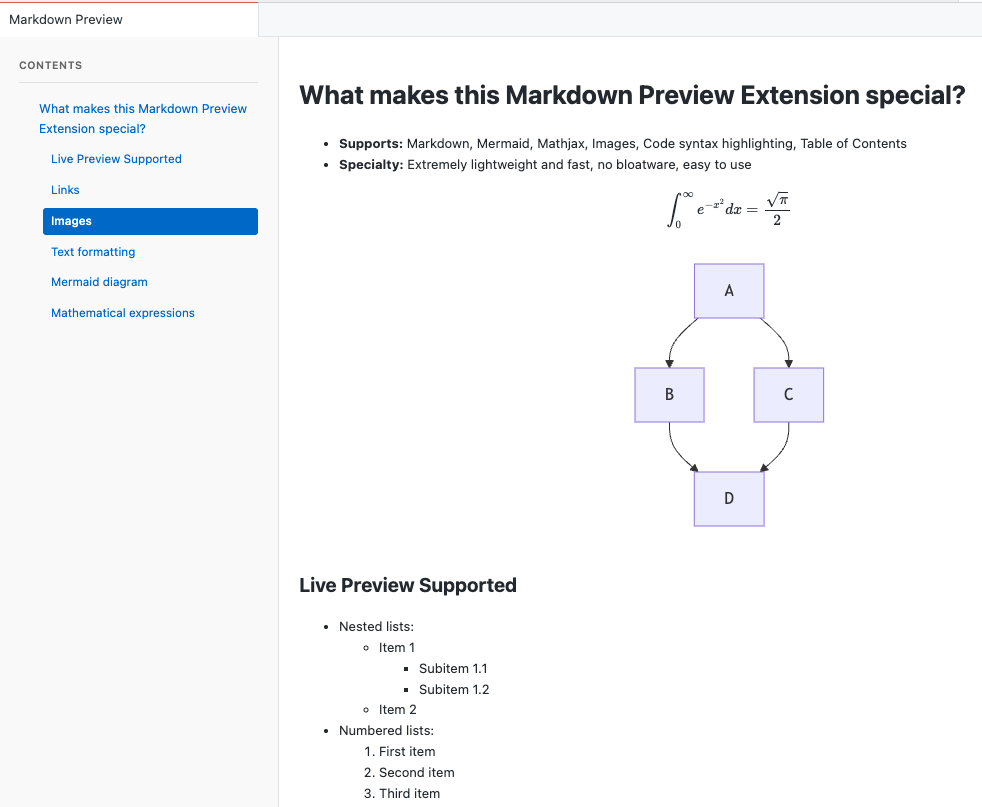
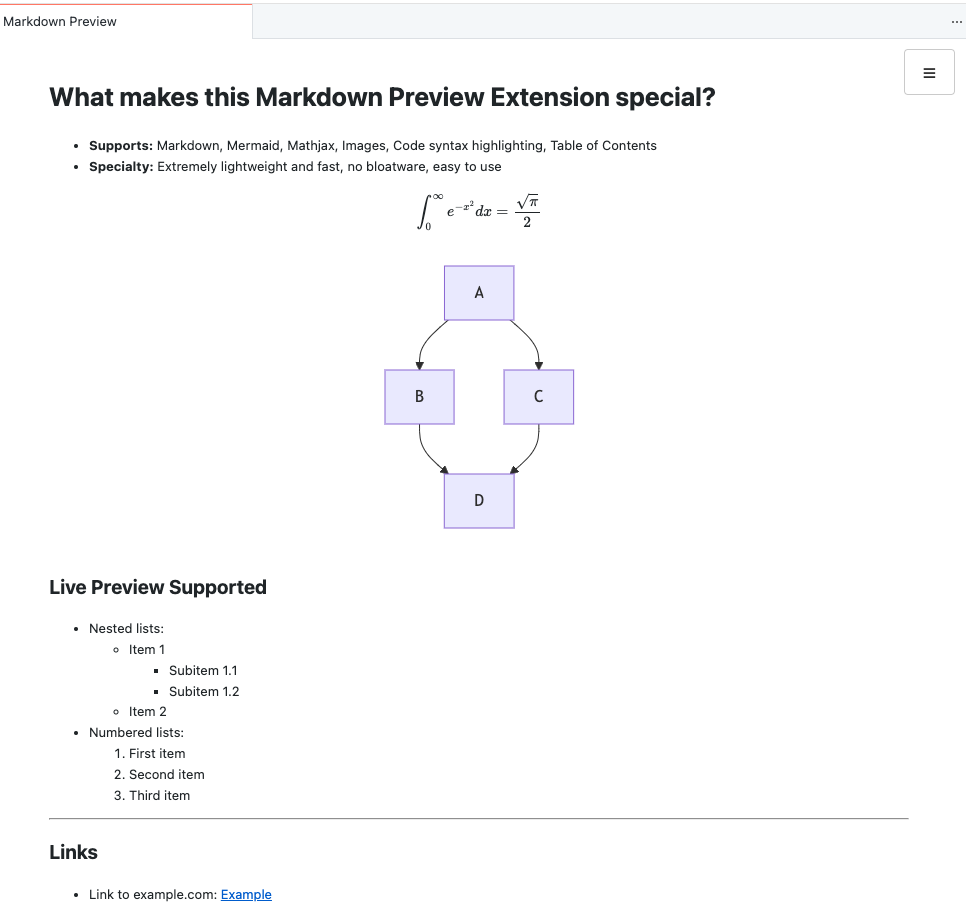
chore: update documentation and changelog for versioning and security model improvements

diff --git a/src/extension.js b/src/extension.js
@@ -387,7 +387,7 @@ function generateTOC(headings) {
  * - Security: Content Security Policy with nonce-based scripts
  * - Styling: Clean, minimal design that works in light and dark themes
  * - Interactivity: Mermaid diagrams and MathJax equations rendered via CDN
- * - Navigation: Collapsible overlay TOC sidebar for document outline (Option 3 pattern)
+ * - Navigation: Collapsible overlay TOC sidebar for document outline
  *
  * CSP (Content Security Policy) breakdown:
  * - default-src 'none': Block everything by default (secure)

diff --git a/docs/development.md b/docs/development.md
@@ -154,7 +154,7 @@ After pushing, verify that:
 
 **Only release from `main` branch after all features are merged and tested.**
 
-Follow these steps precisely in order. Each step is required and builds on the previous one.
+Follow these steps precisely in order. Each step is required and builds on the previous one. Replace `X.Y.Z` with your actual version number throughout.
 
 ### Pre-Release Checklist
 
@@ -173,19 +173,19 @@ Before starting:
 **Edit package.json** - update the version field only:
 
 ```json
-"version": "1.0.4"
+"version": "X.Y.Z"
 ```
 
 **Edit package-lock.json** - update ALL occurrences of version (use search & replace):
 
 ```
-"version": "1.0.4"
+"version": "X.Y.Z"
 ```
 
 Verify with:
 
 ```bash
-grep '"version": "1.0.4"' package.json package-lock.json | wc -l
+grep '"version": "X.Y.Z"' package.json package-lock.json | wc -l
 # Should output: 2 (one from each file)
 ```
 
@@ -194,7 +194,7 @@ grep '"version": "1.0.4"' package.json package-lock.json | wc -l
 Add entry at the **very top** (after the header) in this exact format:
 
 ```markdown
-## [1.0.4] - 2025-11-07
+## [X.Y.Z] - YYYY-MM-DD
 
 ### Added
 - New feature description (if any)
@@ -255,11 +255,11 @@ git status
 **Commit with descriptive message:**
 
 ```bash
-git commit -m "chore: bump version to 1.0.4
+git commit -m "chore: bump version to X.Y.Z
 
 - Update package.json version
 - Update package-lock.json version
-- Add CHANGELOG entry for v1.0.4"
+- Add CHANGELOG entry for vX.Y.Z"
 ```
 
 **Verify commit:**
@@ -273,13 +273,13 @@ git log -1 --oneline  # Should show your commit
 **Create annotated tag (required, not lightweight):**
 
 ```bash
-git tag -a v1.0.4 -m "Release version 1.0.4"
+git tag -a vX.Y.Z -m "Release version X.Y.Z"
 ```
 
 **Verify tag points to correct commit:**
 
 ```bash
-git show v1.0.4 --quiet  # Should show your version bump commit
+git show vX.Y.Z --quiet  # Should show your version bump commit
 ```
 
 ### Step 7: Push to GitHub
@@ -293,14 +293,14 @@ git push origin main
 **Push tag:**
 
 ```bash
-git push origin v1.0.4
+git push origin vX.Y.Z
 ```
 
 **Verify both pushed:**
 
 ```bash
 git log -1 origin/main --oneline  # Should show your commit
-git ls-remote origin refs/tags/v1.0.4  # Should return tag SHA
+git ls-remote origin refs/tags/vX.Y.Z  # Should return tag SHA
 ```
 
 ### Step 8: Publish to VS Code Marketplace
@@ -313,7 +313,7 @@ npm run build
 npm run publish
 ```
 
-Wait for confirmation: `DONE  Published KunalPathak.lightweight-markdown-preview v1.0.4.`
+Wait for confirmation: `DONE  Published KunalPathak.lightweight-markdown-preview vX.Y.Z.`
 
 If you get version-already-published error, verify package.json has the correct new version.
 
@@ -324,7 +324,7 @@ If you get version-already-published error, verify package.json has the correct 
 git log origin/main -3 --oneline
 
 # Check GitHub tag exists
-git ls-remote origin refs/tags/v1.0.4
+git ls-remote origin refs/tags/vX.Y.Z
 
 # Check marketplace (may take 5-10 minutes to appear)
 # https://marketplace.visualstudio.com/items?itemName=KunalPathak.lightweight-markdown-preview
@@ -334,10 +334,10 @@ git ls-remote origin refs/tags/v1.0.4
 
 **Tag already exists:**
 ```bash
-git tag -d v1.0.4                      # Delete local
-git push origin :refs/tags/v1.0.4      # Delete remote
-git tag -a v1.0.4 -m "Release v1.0.4"  # Recreate
-git push origin v1.0.4                 # Push new
+git tag -d vX.Y.Z                      # Delete local
+git push origin :refs/tags/vX.Y.Z      # Delete remote
+git tag -a vX.Y.Z -m "Release vX.Y.Z"  # Recreate
+git push origin vX.Y.Z                 # Push new
 ```
 
 **Version already on marketplace:**
@@ -346,7 +346,7 @@ git push origin v1.0.4                 # Push new
 
 **Tag points to wrong commit:**
 ```bash
-git show v1.0.4 --quiet | head -3  # Check what tag points to
+git show vX.Y.Z --quiet | head -3  # Check what tag points to
 git log -1 --oneline               # Check current commit
 # If different: follow "Tag already exists" steps above
 ```
@@ -361,11 +361,11 @@ Before committing any code, verify:
 - [ ] **No security regressions:** CSP, nonce generation, and state management unchanged (unless intentional)
 - [ ] **Manual testing:** Test in F5 dev host with `examples/test.md`
 - [ ] **No console logs:** Remove debugging statements (unless required for production diagnostics)
-- [ ] **Metrics updated:** If code size or package size changed significantly, update README.md and architecture.md
+- [ ] **Documentation updated:** If features or architecture changed, update relevant docs (README.md, architecture.md, CHANGELOG.md)
 
-## 5. Common Pitfalls
+## 5. Common Pitfalls (High-Risk Areas)
 
-These are **high-risk areas** where mistakes can introduce bugs or security vulnerabilities. Review carefully before making changes.
+These are high-risk areas where mistakes can introduce bugs or security vulnerabilities. Review carefully before making changes.
 
 ### Pitfall #1: Modifying Content Security Policy (CSP)
 
@@ -450,7 +450,7 @@ html = html.replace(/src="([^"]+)"/, `src="${imageUri}"`);
 **Problem:** Code changes without documentation updates lead to drift and confusion.
 
 **When to update documentation:**
-- **README.md:** Update metrics (~XX KB, ~XX lines) if code size changes significantly
+- **README.md:** Update if user-facing features or install instructions change
 - **architecture.md:** Update if design patterns or security model changes
 - **development.md:** Update if workflow, tooling, or standards change
 - **CHANGELOG.md:** Update for **every release** with user-facing changes
@@ -484,7 +484,7 @@ Check the Actions tab on GitHub:
    - Missing files: ensure all required files are tracked in git
    - Case sensitivity issues: check for duplicate files
 
-## 5. Release Checklist Summary
+## 7. Release Checklist Summary
 
 Use this before every release:
 
@@ -504,7 +504,7 @@ RELEASE:
 - [ ] Increment version in package.json
 - [ ] Update CHANGELOG.md with new entry
 - [ ] Commit version update
-- [ ] Create git tag (v1.0.2)
+- [ ] Create git tag (vX.Y.Z)
 - [ ] Push tag to GitHub
 - [ ] Create GitHub Release
 - [ ] Run `npm run publish`

diff --git a/docs/architecture.md b/docs/architecture.md
@@ -26,11 +26,11 @@ Webview displays rendered content with Mermaid/MathJax
 
 ## Security Model
 
-Our security model assumes that any markdown file could be malicious. We use a defense-in-depth strategy to mitigate risks, primarily Cross-Site Scripting (XSS).
+The security model assumes that any markdown file could be malicious. The extension uses a defense-in-depth strategy to mitigate risks, primarily Cross-Site Scripting (XSS).
 
 ### Layer 1: Content Security Policy (CSP) with Nonces
 
-We enforce a strict CSP that only allows scripts with a unique, randomly-generated `nonce` (number used once) to run.
+The extension enforces a strict CSP that only allows scripts with a unique, randomly-generated `nonce` (number used once) to run.
 
 - **How it works:** A new cryptographic nonce is generated for every preview render. This nonce is included in the CSP `meta` tag and in every legitimate `<script>` tag.
 - **Effect:** Any malicious `<script>` tag injected within the markdown will not have the correct nonce and will be blocked by the browser from executing.

diff --git a/readme.md b/readme.md
@@ -55,7 +55,8 @@ This README is all you need to install and use the extension.
    - **Section 1:** Local setup and verification
    - **Section 2:** Feature development workflow (creating branches, making changes, testing, merging)
    - **Section 3:** Release to marketplace (version bumps, tagging, publishing)
-   - **Section 4 & 5:** Code quality checklist and common pitfalls to avoid
+   - **Section 4-5:** Code quality checklist and common pitfalls
+   - **Section 6-7:** Troubleshooting and release checklist
 
 **At a glance:**
 - `architecture.md` - WHY design decisions were made

diff --git a/CHANGELOG.md b/CHANGELOG.md
@@ -72,8 +72,8 @@ All notable changes to this project will be documented in this file.
 
 ## [1.0.1] - 2025-11-02
 
-### Initial Release
-- Lightweight Markdown preview (~38 KB, no dependencies)
+### Added
+- Lightweight Markdown preview (single runtime dependency: `marked`)
 - Full Mermaid diagram support (flowcharts, sequences, state diagrams, etc.)
 - MathJax equation support (inline and display math)
 - Live preview updates as you type
